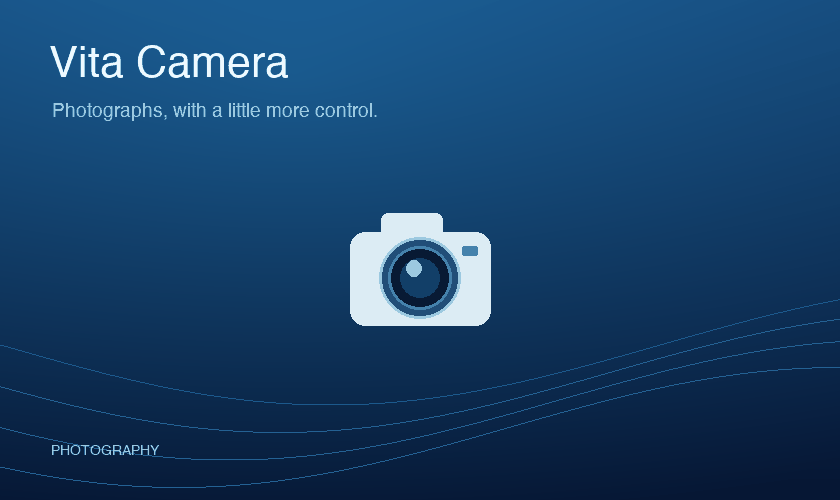
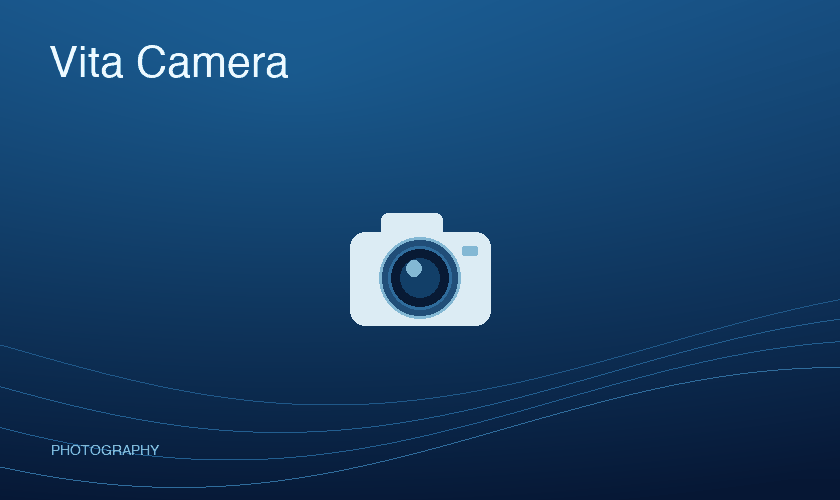
Verify capture ownership and failed-save recovery

diff --git a/tests/writer_tests.cpp b/tests/writer_tests.cpp
@@ -1,0 +1,59 @@
+#include "storage.hpp"
+#include <png.h>
+#include <cassert>
+#include <chrono>
+#include <filesystem>
+#include <iostream>
+#include <unistd.h>
+
+using namespace cam;
+static SaveResult await(CaptureWriter& writer) {
+    for (int tries = 0; tries < 1000; ++tries) {
+        if (auto result = writer.poll()) return *result;
+        std::this_thread::sleep_for(std::chrono::milliseconds(5));
+    }
+    assert(false && "Writer timed out");
+    return {};
+}
+int main() {
+    char temporary[] = "/tmp/vitacam-writer-XXXXXX";
+    const char* dir = mkdtemp(temporary); assert(dir);
+    const std::string root(dir);
+    Capture capture;
+    capture.stem = "immutable";
+    capture.frame.pixels.resize(Width*Height,{210,120,30,255});
+    {
+        CaptureWriter writer(root);
+        assert(writer.submit(capture));
+        assert(!writer.submit(capture));
+        capture.frame.pixels.assign(Width*Height,{0,0,0,255});
+        auto saved = await(writer); assert(saved.ok);
+        png_image image{}; image.version = PNG_IMAGE_VERSION;
+        assert(png_image_begin_read_from_file(&image,saved.path.c_str()));
+        image.format = PNG_FORMAT_RGB;
+        std::vector<uint8_t> pixels(PNG_IMAGE_SIZE(image));
+        assert(png_image_finish_read(&image,nullptr,pixels.data(),0,nullptr));
+        assert(pixels[0] == 210 && pixels[1] == 120 && pixels[2] == 30);
+        png_image_free(&image);
+    }
+    {
+        CaptureWriter writer(root+"/unavailable");
+        capture.stem = "retry";
+        assert(writer.submit(capture));
+        assert(!await(writer).ok);
+        assert(writer.failed() && !writer.busy());
+        assert(!writer.submit(capture));
+        std::filesystem::create_directory(root+"/unavailable");
+        assert(writer.retry());
+        assert(await(writer).ok && !writer.failed());
+    }
+    {
+        CaptureWriter writer(root);
+        capture.stem = "drain";
+        assert(writer.submit(capture));
+    }
+    assert(std::filesystem::exists(root+"/drain.png"));
+    assert(std::filesystem::exists(root+"/drain.json"));
+    std::filesystem::remove_all(root);
+    std::cout << "Immutable worker capture, queue bounds, failed-save retry and shutdown drain passed\n";
+}

diff --git a/src/storage.cpp b/src/storage.cpp
@@ -48,56 +48,5 @@ std::string lastPhoto() {
     return path;
 }
 bool storeLastPhoto(const std::string& path) { return atomicText(std::string(DataDirectory)+"/last-photo.txt",path); }
-CaptureWriter::CaptureWriter() : thread_(&CaptureWriter::work,this) {}
-CaptureWriter::~CaptureWriter() {
-    { std::lock_guard<std::mutex> lock(mutex_); stopping_ = true; }
-    wake_.notify_one();
-    thread_.join();
-}
-bool CaptureWriter::submit(const Capture& capture) {
-    std::lock_guard<std::mutex> lock(mutex_);
-    if (busy_ || failed_ || result_) return false;
-    pending_ = std::make_shared<Capture>(capture);
-    busy_ = true;
-    wake_.notify_one();
-    return true;
-}
-bool CaptureWriter::retry() {
-    std::lock_guard<std::mutex> lock(mutex_);
-    if (busy_ || !failed_ || result_) return false;
-    pending_ = std::move(failed_);
-    busy_ = true;
-    wake_.notify_one();
-    return true;
-}
-bool CaptureWriter::busy() const { std::lock_guard<std::mutex> lock(mutex_); return busy_; }
-bool CaptureWriter::failed() const { std::lock_guard<std::mutex> lock(mutex_); return bool(failed_); }
-std::optional<SaveResult> CaptureWriter::poll() {
-    std::lock_guard<std::mutex> lock(mutex_);
-    auto result = std::move(result_);
-    result_.reset();
-    return result;
-}
-void CaptureWriter::work() {
-    while (true) {
-        std::shared_ptr<Capture> job;
-        {
-            std::unique_lock<std::mutex> lock(mutex_);
-            wake_.wait(lock,[&] { return stopping_ || pending_; });
-            if (!pending_) return;
-            job = std::move(pending_);
-        }
-        auto result = saveCapture(PhotoDirectory,*job);
-        if (result.ok) { storeLastPhoto(result.path); sceIoSync("ux0:",0); }
-        {
-            std::lock_guard<std::mutex> lock(mutex_);
-            if (!result.ok) {
-                if (result.originalSaved) job->stem += "-retry";
-                failed_ = job;
-            }
-            result_ = std::move(result);
-            busy_ = false;
-        }
-    }
-}
+void commitPhoto(const std::string& path) { storeLastPhoto(path); sceIoSync("ux0:",0); }
 }

diff --git a/src/capture_writer.cpp b/src/capture_writer.cpp
@@ -1,0 +1,57 @@
+#include "storage.hpp"
+
+namespace cam {
+CaptureWriter::CaptureWriter(std::string directory, void (*onSaved)(const std::string&))
+    : directory_(std::move(directory)), onSaved_(onSaved), thread_(&CaptureWriter::work,this) {}
+CaptureWriter::~CaptureWriter() {
+    { std::lock_guard<std::mutex> lock(mutex_); stopping_ = true; }
+    wake_.notify_one();
+    thread_.join();
+}
+bool CaptureWriter::submit(const Capture& capture) {
+    std::lock_guard<std::mutex> lock(mutex_);
+    if (busy_ || failed_ || result_) return false;
+    pending_ = std::make_shared<Capture>(capture);
+    busy_ = true;
+    wake_.notify_one();
+    return true;
+}
+bool CaptureWriter::retry() {
+    std::lock_guard<std::mutex> lock(mutex_);
+    if (busy_ || !failed_ || result_) return false;
+    pending_ = std::move(failed_);
+    busy_ = true;
+    wake_.notify_one();
+    return true;
+}
+bool CaptureWriter::busy() const { std::lock_guard<std::mutex> lock(mutex_); return busy_; }
+bool CaptureWriter::failed() const { std::lock_guard<std::mutex> lock(mutex_); return bool(failed_); }
+std::optional<SaveResult> CaptureWriter::poll() {
+    std::lock_guard<std::mutex> lock(mutex_);
+    auto result = std::move(result_);
+    result_.reset();
+    return result;
+}
+void CaptureWriter::work() {
+    while (true) {
+        std::shared_ptr<Capture> job;
+        {
+            std::unique_lock<std::mutex> lock(mutex_);
+            wake_.wait(lock,[&] { return stopping_ || pending_; });
+            if (!pending_) return;
+            job = std::move(pending_);
+        }
+        auto result = saveCapture(directory_,*job);
+        if (result.ok && onSaved_) onSaved_(result.path);
+        {
+            std::lock_guard<std::mutex> lock(mutex_);
+            if (!result.ok) {
+                if (result.originalSaved) job->stem += "-retry";
+                failed_ = job;
+            }
+            result_ = std::move(result);
+            busy_ = false;
+        }
+    }
+}
+}

diff --git a/src/ui.cpp b/src/ui.cpp
@@ -221,7 +221,7 @@ std::vector<Hit> drawUi(Painter& p, const UiState& u) {
         hits.clear();
         p.rect({0,40,960,480},rgba(0,9,25,200));
         p.round({176,58,608,431},17,rgba(15,47,82));
-        p.text(204,100,28,White,"Make yourself at home");
+        p.text(204,100,28,White,"Controls");
         const char* controls[][2] = {{"R / Cross", "Take a photograph"},{"Left / Right", "Exposure compensation"},{"Up / Down", "White balance / color look"},{"L", "Switch camera"},{"Square / Triangle", "Last shot / settings"},{"Circle", "Clean view / back / cancel timer"},{"Hold Select", "Compare with original"},{"Start", "Show these controls"}};
         for (int i = 0; i < 8; ++i) {
             p.text(208,147+i*33,17,Cyan,controls[i][0]);

diff --git a/include/storage.hpp b/include/storage.hpp
@@ -15,9 +15,10 @@ bool storeSettings(const Settings& settings);
 std::string captureName(uint64_t serial);
 std::string lastPhoto();
 bool storeLastPhoto(const std::string& path);
+void commitPhoto(const std::string& path);
 class CaptureWriter {
 public:
-    CaptureWriter();
+    explicit CaptureWriter(std::string directory, void (*onSaved)(const std::string&) = nullptr);
     ~CaptureWriter();
     bool submit(const Capture& capture);
     bool retry();
@@ -33,6 +34,8 @@ private:
     std::shared_ptr<Capture> pending_;
     std::shared_ptr<Capture> failed_;
     std::optional<SaveResult> result_;
+    std::string directory_;
+    void (*onSaved_)(const std::string&);
     std::thread thread_;
 };
 }

diff --git a/scripts/artwork.py b/scripts/artwork.py
@@ -56,7 +56,6 @@ save(icon, ROOT / "assets/icon0.png")
 bg = background((840,500))
 draw = ImageDraw.Draw(bg)
 draw.text((49,43),"Vita Camera",font=font(43),fill="#effaff")
-draw.text((52,102),"Photographs, with a little more control.",font=font(19),fill="#aad8ed")
 lens(draw,420,276,1.75)
 draw.text((51,444),"PHOTOGRAPHY",font=font(14),fill="#9bccdf")
 save(bg, ROOT / "assets/livearea/bg.png")

diff --git a/src/main.cpp b/src/main.cpp
@@ -17,7 +17,7 @@ namespace cam {
 class App {
     VitaPainter painter;
     Camera camera;
-    CaptureWriter writer;
+    CaptureWriter writer{PhotoDirectory,commitPhoto};
     UiState ui;
     Frame frame, reviewFrame;
     Look reviewLook = Look::Original;

diff --git a/README.md b/README.md
@@ -2,6 +2,8 @@
 
 C++17 photo app for a homebrew PS Vita. Blue glass panels, native 4:3 framing, touch controls and physical shortcuts.
 
+![Interface preview with a simulated scene](docs/ui-preview.png)
+
 ## Features
 
 - Rear/front camera, VGA ABGR capture; tries 60 fps, falls back to 30 fps.
@@ -54,8 +56,8 @@ Assets are included. To regenerate them, install Pillow in a virtual environment
 ## Install
 
 1. In VitaShell, press START, set **SELECT button → USB**, close the menu and press SELECT.
-2. Copy `dist/vita-cam.vpk` to the drive's `data` folder. Eject the drive on the computer.
-3. Press Circle on the Vita to stop sharing. Install `ux0:data/vita-cam.vpk` in VitaShell.
+2. Set **USB device** to the storage you use (for example, SD2Vita). Copy `dist/vita-cam.vpk` to that drive's root as `VitaCamera.vpk`. Eject the drive on the computer.
+3. Press Circle on the Vita to stop sharing. Find `VitaCamera.vpk` at the root of that storage in VitaShell and install it. An exported Memory Card may be mounted as `uma0:` rather than `ux0:` when SD2Vita is active.
 4. Launch **Vita Camera** from LiveArea.
 
 Updating the same title (`VITACAM01`) preserves photographs in the separate data directory.
@@ -68,6 +70,6 @@ With CMake, a native C++ compiler and libpng:
 sh scripts/check.sh
 ```
 
-Checks exercise EV bounds, WB enumeration, invalid preferences, timers, pixel transforms, histogram/clipping, PNG pixel equality, collision handling, write failures and touch hit testing. The same C++ drawing code produces `build-host/*.svg` for layout inspection, using a clearly labeled simulated scene.
+Checks exercise EV bounds, WB enumeration, invalid preferences, timers, pixel transforms, histogram/clipping, PNG pixel equality, collision handling, write failures and touch hit testing. Worker tests cover frame ownership, queue limits, failed-save retry and shutdown draining. The same C++ drawing code produces `build-host/*.svg` for layout inspection, using a clearly labeled simulated scene.
 
 Hardware checks and limitations: [docs/device-testing.md](docs/device-testing.md). Design and implementation: [docs/architecture.md](docs/architecture.md). Original brief: [vita-cam.md](vita-cam.md).

diff --git a/docs/architecture.md b/docs/architecture.md
@@ -6,7 +6,7 @@
 
 `main.cpp` handles controller/touch input, timer, last-shot review and camera recovery after resume or repeated read failure. Capture waits for a fresh frame and a short settling interval after camera changes. That interval is a usability precaution, not a measured exposure lock or a calibrated bracketing delay.
 
-`CaptureWriter` owns an immutable frame copy and encodes on a separate thread. One outstanding capture bounds memory use. A failed job stays in memory for explicit retry; closing the process loses that retained copy. PNGs are written to `.part` files, closed, then renamed. Existing capture names are rejected. If a partial export already saved an original, retry uses a new suffix and preserves it.
+`capture_writer.cpp` owns an immutable frame copy and encodes on a separate thread. One outstanding capture bounds memory use. A failed job stays in memory for explicit retry; closing the process loses that retained copy. PNGs are written to `.part` files, closed, then renamed. Existing capture names are rejected. If a partial export already saved an original, retry uses a new suffix and preserves it. Host tests run the same worker and exercise ownership, retry and shutdown.
 
 `ui.cpp` renders through a small `Painter` interface. `vita_painter.cpp` uses libvita2d and the system PGF font. The host snapshot renderer uses the same layout code. Preview textures are updated only after the previous GPU work completes. Mirroring, zebra stripes, shadow warnings and guides affect preview only.
 

diff --git a/docs/device-testing.md b/docs/device-testing.md
@@ -6,7 +6,8 @@
 - ARM executable links and packages as `VITACAM01`.
 - Host capture checks pass, including RGB PNG round-trip equality.
 - Camera and settings layouts inspected using shared C++ SVG output.
-- VPK copied to the connected Vita through VitaShell USB storage.
+- VPK copied to the connected Vita's 8 GB Memory Card as `VitaCamera.vpk` at the root; source and destination SHA-256 hashes match. The initial copy also exists in `data/vita-cam.vpk`.
+- With SD2Vita, the exported Memory Card may be secondary storage. Confirm the VitaShell mount before looking under `ux0:`.
 - On-device launch, image orientation and capture: awaiting device check.
 
 ## On the Vita
